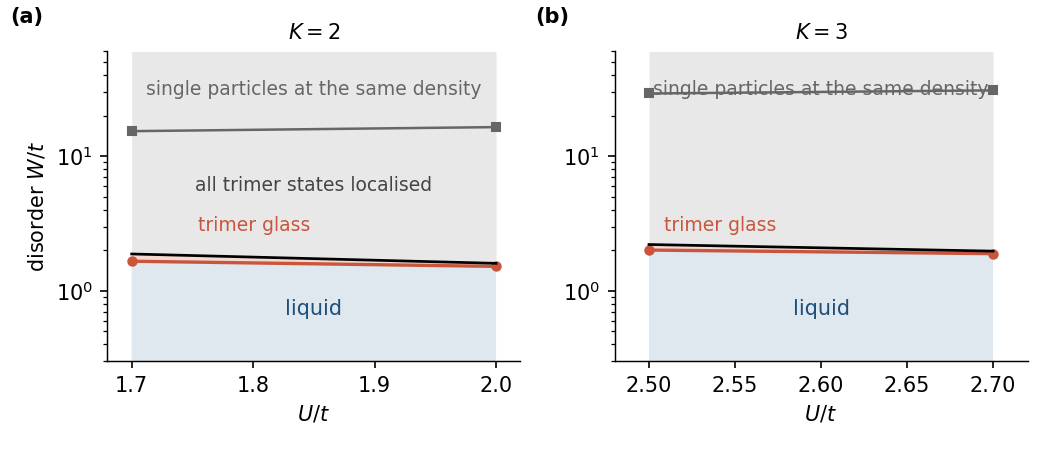
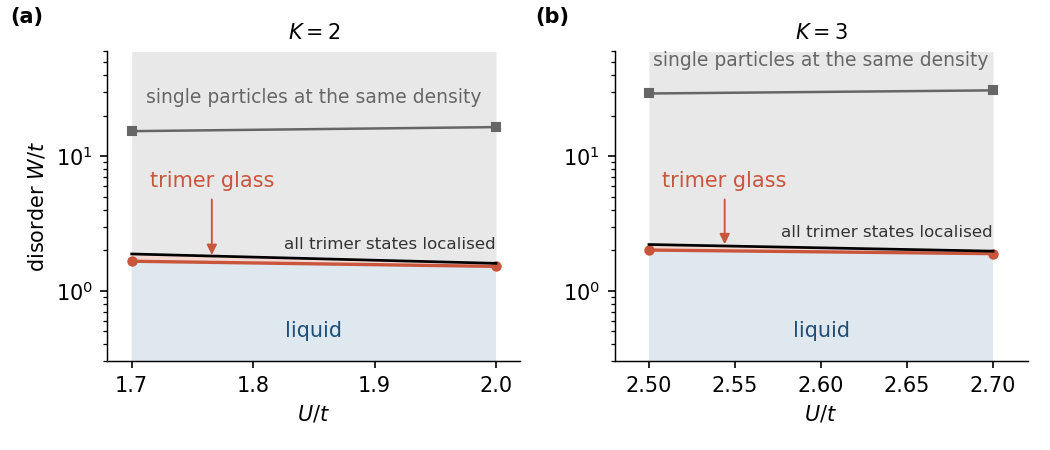
paper: fig. 7 labels anchored to the lines

diff --git a/paper/fig5.py b/paper/fig5.py
@@ -23,9 +23,14 @@ for ax, K in zip(axes, (2, 3)):
     ax.set_xlim(U.min() - 0.02, U.max() + 0.02)
     for s in ("top", "right"): ax.spines[s].set_visible(False)
 axes[0].set_ylabel("disorder $W/t$")
-axes[0].text(0.5, 0.15, "liquid", transform=axes[0].transAxes, fontsize=10, color=B, ha="center")
-axes[0].text(0.22, 0.42, "trimer glass", transform=axes[0].transAxes, fontsize=9, color=R, ha="left")
-axes[0].text(0.5, 0.55, "all trimer states localised", transform=axes[0].transAxes, fontsize=9, color="#444444", ha="center")
-axes[1].text(0.5, 0.15, "liquid", transform=axes[1].transAxes, fontsize=10, color=B, ha="center")
-axes[1].text(0.12, 0.42, "trimer glass", transform=axes[1].transAxes, fontsize=9, color=R, ha="left")
-axes[0].text(0.5, 0.86, "single particles at the same density", transform=axes[0].transAxes, fontsize=9, color="#666666", ha="center"); axes[1].text(0.5, 0.86, "single particles at the same density", transform=axes[1].transAxes, fontsize=9, color="#666666", ha="center"); fig.tight_layout(w_pad=2.0); fig.text(0.01, 0.95, "(a)", fontsize=10, fontweight="bold"); fig.text(0.51, 0.95, "(b)", fontsize=10, fontweight="bold"); fig.savefig("fig5.pdf"); fig.savefig("fig5.png", dpi=150)
+for ax, K in zip(axes, (2, 3)):
+    rows = [r for r in g[str(K)] if r["n1"] < 1 and r["U"] >= Ucompact[K] - 1e-9]
+    U = np.array([r["U"] for r in rows]); Wg = np.array([r["W_glass"] for r in rows]); Wc = np.array([r["Wc3"] for r in rows])
+    r1 = [r for r in g1[str(K)] if r["U"] >= Ucompact[K] - 1e-9]; W1 = np.array([r["W1_glass"] for r in r1])
+    um = 0.5 * (U.min() + U.max())
+    ax.text(um, W1.mean() * 1.45, "single particles at the same density", fontsize=9, color="#666666", ha="center", va="bottom")
+    ax.text(um, 0.5, "liquid", fontsize=10, color=B, ha="center", va="center")
+    ul = U.min() + 0.22 * (U.max() - U.min())
+    ax.annotate("trimer glass", xy=(ul, np.sqrt(np.interp(ul, U, Wg) * np.interp(ul, U, Wc))), xytext=(ul, 5.5), fontsize=10, color=R, ha="center", va="bottom", arrowprops=dict(arrowstyle="-|>", color=R, lw=0.9, shrinkB=2))
+    ax.text(U.max(), Wc[-1] * 1.22, "all trimer states localised", fontsize=8, color="#333333", ha="right", va="bottom")
+fig.tight_layout(w_pad=2.0); fig.text(0.01, 0.95, "(a)", fontsize=10, fontweight="bold"); fig.text(0.51, 0.95, "(b)", fontsize=10, fontweight="bold"); fig.savefig("fig5.pdf"); fig.savefig("fig5.png", dpi=150)
